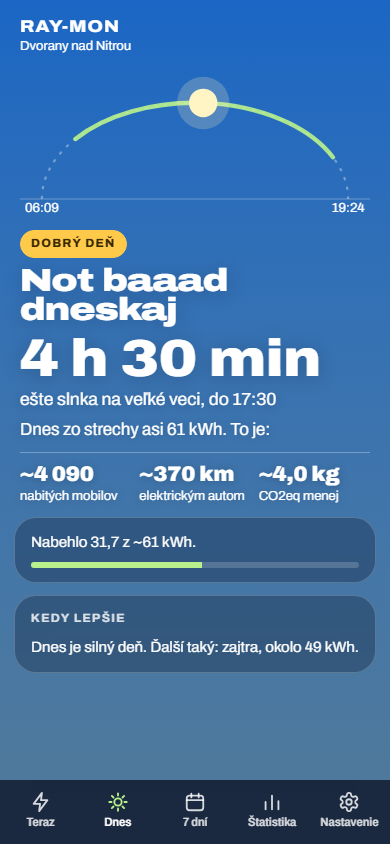
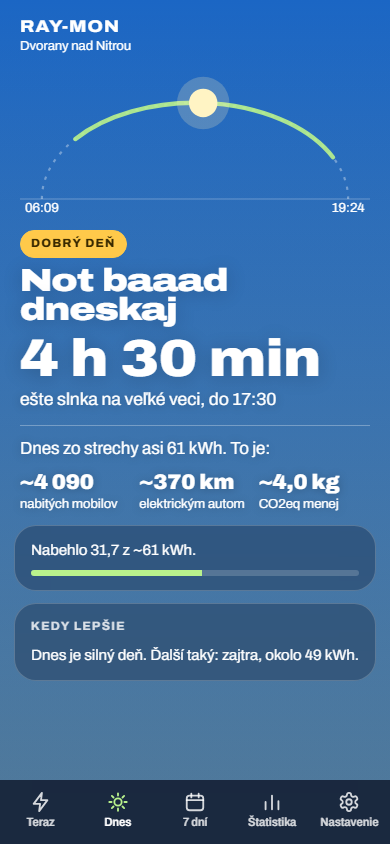
feat: čiara nad vetou Dnes zo strechy na karte Dnes (#442)
## Čo sa mení

Na karte Dnes sa čiara presunula spod vety „Dnes zo strechy…“ nad ňu, na
celý blok (veta + tri čísla).

- Veta o okne a veta o streche mali rovnaké písmo a delilo ich len 8 px,
čítali sa ako jeden odsek.
- Čiara stála medzi vetou a jej číslami, teraz držia spolu.
- Čiara je na `.den`, nie na vete: večer je veta skrytá (vysvedčenie) a
čiara ostáva nad číslami.

Vybraná možnosť 2 z mockupov. Pribalená nová snímka
`docs/img/mozem.png`.

## Overenie

- Snímky skutočnej appky s fixtures na 360 × 780, cez deň aj večer:
čiara je správne, Kedy lepšie sa zmestí nad navigáciu.
- `npm run check` a `npm run test:e2e` lokálne nedobehli (beh bol
prerušený), výsledok dá až CI.

🤖 Generated with [Claude Code](https://claude.com/claude-code)

Changed region(s): [[0.0308, 0.4929, 0.9538, 0.8318]]

diff --git a/style.css b/style.css
@@ -507,10 +507,14 @@ button.live[aria-expanded='true'] {
     font-variation-settings: 'wdth' 95;
     text-shadow: 0 1px 10px rgba(0, 0, 0, 0.25);
 }
-/* Čo dá strecha za celý deň: tri čísla vedľa seba pod jemnou čiarou. */
+/* Čo dá strecha za celý deň: veta a tri čísla vedľa seba sú jeden blok, od vety nad ním ho delí
+   jemná čiara. Stojí na bloku, nie na vete: večer je veta skrytá a čiara nad číslami ostáva. */
 .den {
     display: grid;
     gap: 10px;
+    margin-top: 6px;
+    padding-top: 12px;
+    border-top: 1px solid rgba(255, 255, 255, 0.3);
 }
 .eq {
     display: grid;
@@ -519,8 +523,6 @@ button.live[aria-expanded='true'] {
     list-style: none;
     grid-template-columns: repeat(3, minmax(0, 1fr));
     gap: 8px;
-    padding-top: 10px;
-    border-top: 1px solid rgba(255, 255, 255, 0.3);
     text-shadow: 0 1px 10px rgba(0, 0, 0, 0.25);
 }
 /* Číslo sa na úzkom displeji zmenší, aby sa „~4 090“ zmestilo do tretiny aj na 320 px. */
